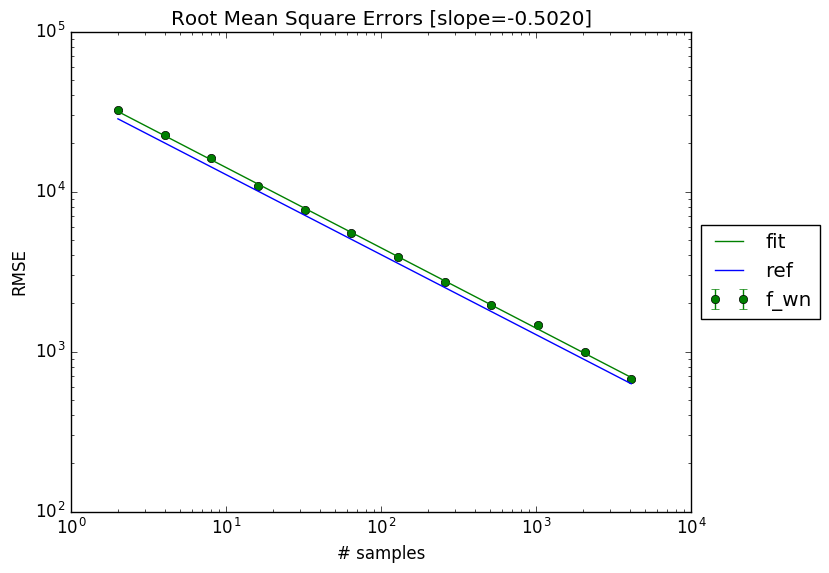
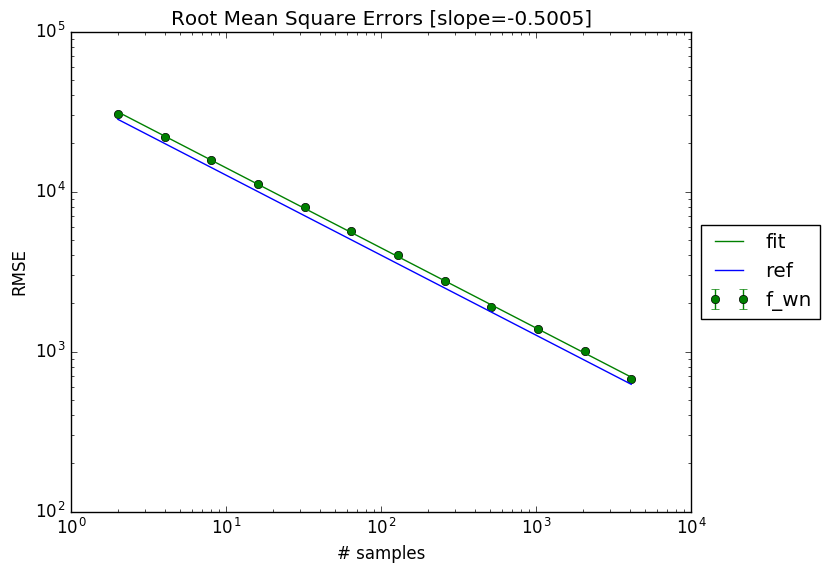
Correct linear to log transform of errorbars

diff --git a/src/mc_tools.py b/src/mc_tools.py
@@ -73,7 +73,7 @@ def _vis_RMSE(name, xs, ys, yerr, plot=True, save=True, ref_offset=0.99):
     plt.figure()
     
     # RMSE errorbar
-    plt.errorbar(xs, ys, yerr=yerr, ls='None', marker='o', color='g', label=name)
+    plt.errorbar(xs, ys, yerr=yerr / ys, ls='None', marker='o', color='g', label=name)
     # 1 degree polynomial fit
     log_xs = np.log2(xs)
     log_ys = np.log2(ys)
